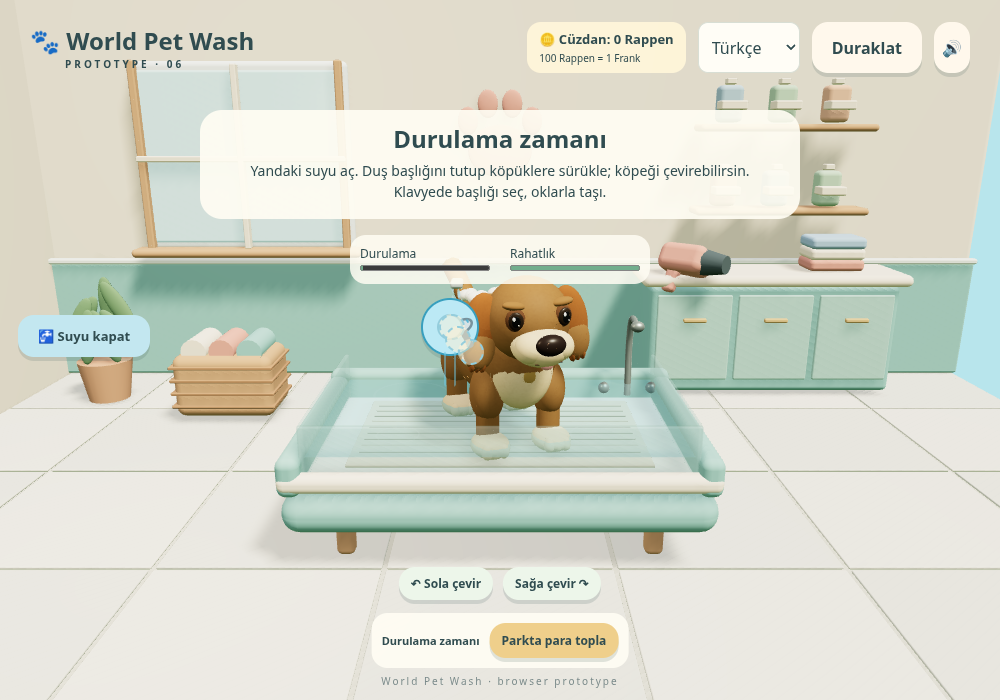
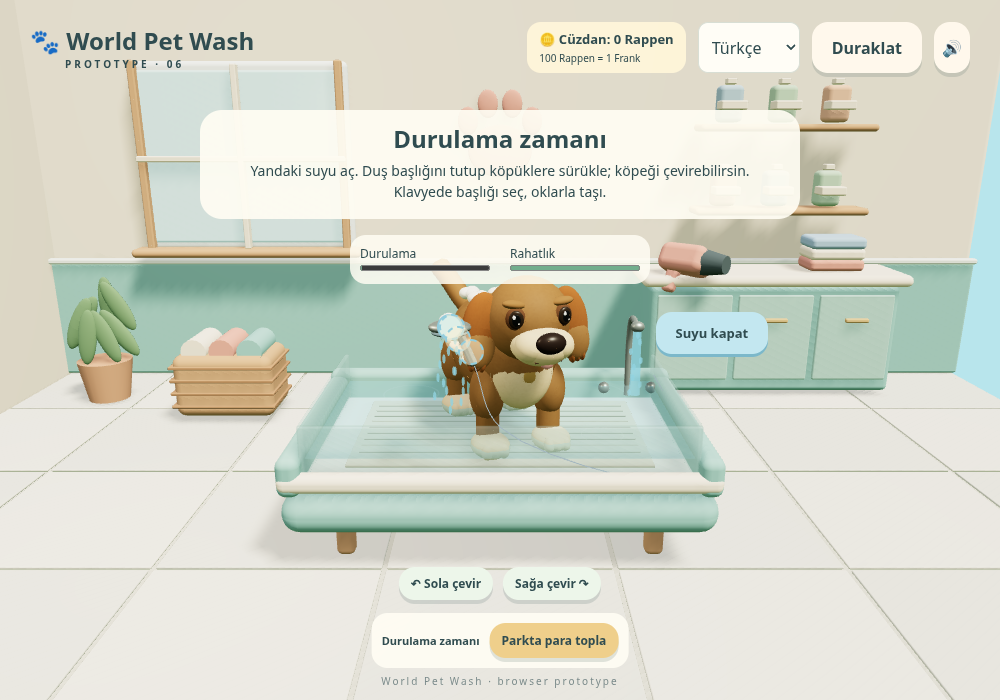
Fix slide direction, add swing pumping and movable shower head

Changed region(s): [[0.403, 0.39, 0.589, 0.6], [0.62, 0.42, 0.775, 0.57], [0.0, 0.45, 0.155, 0.54]]

diff --git a/src/main.js b/src/main.js
@@ -1,6 +1,6 @@
 import * as THREE from 'three';
 import './style.css';
-import { groundHeight, ParkJump, dogDestination, nearbyRide, moveAroundObjects, blocked } from './park.js';
+import { groundHeight, ParkJump, SwingMotion, slidePosition, dogDestination, nearbyRide, moveAroundObjects, blocked } from './park.js';
 import { GameSound } from './sound.js';
 import { CaptureSequence } from './capture.js';
 import { MoneyQuestion, collectionQuestion } from './math.js';
@@ -68,9 +68,9 @@ Object.assign(texts.de,{timing:'Spring und fang!',timingHelp:'Klicke oder tippe 
 Object.assign(texts.tr,{washHelp:'Köpeği çevir, baloncukları işaretli kirli noktalara bırak.',rinse:'Durulama zamanı',rinseHelp:'Köpeği çevir. Köpüklü noktaları basılı tutarak suyla durula.',towel:'Havlu zamanı',towelHelp:'Her havluya iki kez bas veya ileri geri sil. Klavyede Enter kullan.',rinseProgress:'Durulama',towelProgress:'Havluyla kurulama',turnLeft:'Sola çevir',turnRight:'Sağa çevir',dirtySpot:'Kirli nokta',foamSpot:'Köpüklü nokta',targetDirt:'Baloncuğu işaretli kirli noktaya bırak.',soundOn:'Ses açık',soundOff:'Ses kapalı'});
 Object.assign(texts.en,{washHelp:'Turn the puppy and drop bubbles onto marked dirty spots.',rinse:'Rinse time',rinseHelp:'Turn the puppy. Hold each foamy spot to rinse it with water.',towel:'Towel time',towelHelp:'Tap each towel twice or rub back and forth. Use Enter with a keyboard.',rinseProgress:'Rinsing',towelProgress:'Towel drying',turnLeft:'Turn left',turnRight:'Turn right',dirtySpot:'Dirty spot',foamSpot:'Foamy spot',targetDirt:'Drop the bubble on a marked dirty spot.',soundOn:'Sound on',soundOff:'Sound off'});
 Object.assign(texts.de,{washHelp:'Drehe den Hund und ziehe Blasen auf markierte schmutzige Stellen.',rinse:'Zeit zum Abspülen',rinseHelp:'Drehe den Hund. Halte jede schaumige Stelle gedrückt, um sie abzuspülen.',towel:'Handtuchzeit',towelHelp:'Tippe jedes Handtuch zweimal an oder reibe hin und her. Mit der Tastatur: Enter.',rinseProgress:'Abspülen',towelProgress:'Abtrocknen',turnLeft:'Nach links drehen',turnRight:'Nach rechts drehen',dirtySpot:'Schmutzige Stelle',foamSpot:'Schaumige Stelle',targetDirt:'Ziehe die Blase auf eine markierte schmutzige Stelle.',soundOn:'Ton an',soundOff:'Ton aus'});
-Object.assign(texts.tr,{jump:'Zıpla',waterOn:'Suyu aç',waterOff:'Suyu kapat',showerHead:'Duş başlığı',rinseHelp:'Yandaki suyu aç. Duş başlığını tutup köpüklere sürükle; köpeği çevirebilirsin. Klavyede başlığı seç, oklarla taşı.',chaseHelp:'WASD / oklarla koş, J ile zıpla. Yaklaşınca Yakala. Tepeleri ve oyun alanını keşfet!'});
-Object.assign(texts.en,{jump:'Jump',waterOn:'Turn water on',waterOff:'Turn water off',showerHead:'Shower head',rinseHelp:'Turn on the water at the side. Drag the shower head onto foam; turn the puppy as needed. Select the head and use arrow keys with a keyboard.',chaseHelp:'Run with WASD / arrows, jump with J. Get close and Catch. Explore hills and the playground!'});
-Object.assign(texts.de,{jump:'Springen',waterOn:'Wasser öffnen',waterOff:'Wasser schliessen',showerHead:'Duschkopf',rinseHelp:'Öffne das Wasser an der Seite. Ziehe den Duschkopf auf den Schaum und drehe den Hund. Mit der Tastatur: Duschkopf auswählen und Pfeile verwenden.',chaseHelp:'Laufe mit WASD / Pfeilen, springe mit J. Geh näher und fange den Hund. Erkunde Hügel und Spielplatz!'});
+Object.assign(texts.tr,{swingHelp:'İleri / geri ile salla',jump:'Zıpla',waterOn:'Suyu aç',waterOff:'Suyu kapat',showerHead:'Duş başlığı',rinseHelp:'Yandaki suyu aç. Duş başlığını tutup köpüklere sürükle; köpeği çevirebilirsin. Klavyede başlığı seç, oklarla taşı.',chaseHelp:'WASD / oklarla koş, J ile zıpla. Yaklaşınca Yakala. Tepeleri ve oyun alanını keşfet!'});
+Object.assign(texts.en,{swingHelp:'Swing with forward / back',jump:'Jump',waterOn:'Turn water on',waterOff:'Turn water off',showerHead:'Shower head',rinseHelp:'Turn on the water at the side. Drag the shower head onto foam; turn the puppy as needed. Select the head and use arrow keys with a keyboard.',chaseHelp:'Run with WASD / arrows, jump with J. Get close and Catch. Explore hills and the playground!'});
+Object.assign(texts.de,{swingHelp:'Mit vor / zurück schaukeln',jump:'Springen',waterOn:'Wasser öffnen',waterOff:'Wasser schliessen',showerHead:'Duschkopf',rinseHelp:'Öffne das Wasser an der Seite. Ziehe den Duschkopf auf den Schaum und drehe den Hund. Mit der Tastatur: Duschkopf auswählen und Pfeile verwenden.',chaseHelp:'Laufe mit WASD / Pfeilen, springe mit J. Geh näher und fange den Hund. Erkunde Hügel und Spielplatz!'});
 Object.assign(texts.tr,{useSwing:'Salıncağa bin (E)',useSlide:'Kaydırağa çık (E)',leaveRide:'İn (E)'});
 Object.assign(texts.en,{useSwing:'Use swing (E)',useSlide:'Climb slide (E)',leaveRide:'Get off (E)'});
 Object.assign(texts.de,{useSwing:'Schaukeln (E)',useSlide:'Zur Rutsche (E)',leaveRide:'Absteigen (E)'});
@@ -99,9 +99,11 @@ box(4.6,.15,.15,'#79a9b2',playground,0,2.8,0);
 const swingPivot=new THREE.Group();swingPivot.position.set(0,2.8,0);playground.add(swingPivot);
 for(const x of [-.4,.4])box(.03,1.9,.03,'#a5aaa6',swingPivot,x,-.95,0);
 box(1,.12,.5,'#efb16c',swingPivot,0,-1.97,0);
-const slide=box(1.2,.1,3.2,'#dba391',playground,3.2,.85,1.4);slide.rotation.x=-.48;
-for(const x of [2.75,3.65])box(.08,1.6,.08,'#719b94',playground,x,.8,0);
-for(let i=0;i<5;i++)box(.8,.07,.16,'#8caeaa',playground,3.2,.25+i*.27,-.65);
+const slide=box(1.2,.1,3.2,'#dba391',playground,3.2,1.57,1.4);slide.rotation.x=.48;
+for(const x of [2.75,3.65])box(.08,2.3,.08,'#719b94',playground,x,1.15,0);
+for(let i=0;i<7;i++)box(.8,.07,.16,'#8caeaa',playground,3.2,.25+i*.3,-.95+i*.14);
+box(1.2,.1,.4,'#dba391',playground,3.2,2.29,-.16);
+for(const x of [2.7,3.7]){const rail=box(.06,.06,3.2,'#dba391',playground,x,1.74,1.4);rail.rotation.x=.48;}
 for(let i=0;i<4;i++)mesh(new THREE.CylinderGeometry(.55,.55,.1,20),i%2?'#7abbb0':'#edbd75',playground,-3+i*1.5,.12,3);
 for(let i=0;i<30;i++){const a=i/30*Math.PI*2,r=48+(i%3);const tree=new THREE.Group();tree.position.set(Math.sin(a)*r,0,Math.cos(a)*r);park.add(tree);mesh(new THREE.CylinderGeometry(.18,.3,2.5,8),'#99775b',tree,0,1.25,0);sphere(1.8,i%2?'#5d9e68':'#73b57b',tree,0,3.3,0);}
 for(let i=0;i<45;i++){const a=i*2.4,r=17+(i%15);sphere(.12,['#fff5ce','#f79caf','#b49de2'][i%3],park,Math.sin(a)*r,.12,Math.cos(a)*r);}
@@ -222,36 +224,42 @@ addEventListener('pointerdown',()=>sound.unlock(),{once:true});addEventListener(
 const soundButton=document.createElement('button');soundButton.id='sound-toggle';document.querySelector('header>div').append(soundButton);
 soundButton.onclick=()=>{sound.toggle();renderSound();};
 function renderSound(){soundButton.textContent=sound.muted?'🔇':'🔊';soundButton.setAttribute('aria-label',t(sound.muted?'soundOff':'soundOn'));soundButton.setAttribute('aria-pressed',String(!sound.muted));}
-let parkRide=null,rideTime=0;
+let parkRide=null,rideTime=0,swingMotion=new SwingMotion();
 const rideButton=document.createElement('button');rideButton.id='ride-button';document.querySelector('#controls').append(rideButton);rideButton.hidden=true;
 function leaveRide(){const previous=parkRide;parkRide=null;swingPivot.rotation.x=0;player.position.set(previous==='slide'?-14.8:-18,0,previous==='slide'?-18.8:-19);keys.clear();owner.animate(elapsed,false);}
-function useRide(){if(paused||!['chase','collect'].includes(stage))return;if(parkRide){leaveRide();return;}const choice=nearbyRide(player.position.x,player.position.z);if(!choice)return;parkRide=choice;rideTime=0;angle=0;parkJump.height=0;parkJump.velocity=0;keys.clear();}
+function useRide(){if(paused||!['chase','collect'].includes(stage))return;if(parkRide){leaveRide();return;}const choice=nearbyRide(player.position.x,player.position.z);if(!choice)return;parkRide=choice;rideTime=0;swingMotion=new SwingMotion();angle=0;parkJump.height=0;parkJump.velocity=0;keys.clear();}
 rideButton.onclick=useRide;
 rideButton.onkeydown=e=>{if(['Enter',' '].includes(e.key)){e.preventDefault();e.stopPropagation();if(!e.repeat)useRide();}};
 function updateRide(dt){rideTime+=dt;
- if(parkRide==='swing'){const theta=Math.sin(rideTime*2)*.45;swingPivot.rotation.x=theta;player.position.set(-18,2.8-1.92*Math.cos(theta)-.78,-17-1.92*Math.sin(theta));player.rotation.y=0;owner.animate(elapsed,false,'sit');}
- if(parkRide==='slide'){const climb=Math.min(1,rideTime/1.5),p=Math.max(0,Math.min(1,(rideTime-1.5)/1.4));player.position.set(-14.8,rideTime<1.5?climb*1.55:1.55*(1-p),rideTime<1.5?-17.65+climb*.85:-16.8+p*2.8);player.rotation.y=0;owner.animate(elapsed,false,rideTime<1.5?'jump':'sit');if(rideTime>3.1){parkRide=null;player.position.set(-14.8,0,-13.5);owner.animate(elapsed,false);}}
+ if(parkRide==='swing'){const push=(keys.has('w')||keys.has('arrowup')||keys.has('up')?1:0)-(keys.has('s')||keys.has('arrowdown')||keys.has('down')?1:0);swingMotion.tick(dt,push);const theta=-swingMotion.angle;swingPivot.rotation.x=theta;player.position.set(-18,2.8-1.92*Math.cos(theta)-.78,-17-1.92*Math.sin(theta));player.rotation.y=0;owner.animate(elapsed,false,'sit');}
+ if(parkRide==='slide'){const p=slidePosition(rideTime);player.position.set(p.x,p.y,p.z);player.rotation.y=0;owner.animate(elapsed,false,rideTime<1.5?'jump':'sit');if(rideTime>3.1){parkRide=null;player.position.set(-14.8,0,-13.5);owner.animate(elapsed,false);}}
 }
 const parkJump=new ParkJump();
 const jumpButton=document.createElement('button');jumpButton.id='jump-button';document.querySelector('#controls').append(jumpButton);
 jumpButton.onclick=()=>{if(!parkRide&&!paused&&['chase','collect'].includes(stage))parkJump.start();};
 jumpButton.onkeydown=e=>{if(['Enter',' '].includes(e.key)){e.preventDefault();e.stopPropagation();if(!e.repeat)jumpButton.click();}};
 const rinseControl=document.createElement('div');rinseControl.id='rinse-control';document.body.append(rinseControl);
+let showerPlaced=false;
 let waterOn=false,showerDragging=false,showerPoint={x:100,y:220};
 function renderRinseControl(){
- rinseControl.hidden=paused||stage!=='rinse';showerDragging=false;
- rinseControl.innerHTML=`<button id="water-tap" aria-pressed="${waterOn}">🚰 ${t(waterOn?'waterOff':'waterOn')}</button><button id="shower-handle" aria-label="${t('showerHead')}" title="${t('showerHead')}"><svg viewBox="0 0 48 48" aria-hidden="true"><path d="M31 37L23 22" fill="none" stroke="#77939e" stroke-width="8" stroke-linecap="round"/><ellipse cx="21" cy="17" rx="13" ry="7" transform="rotate(-30 21 17)" fill="#d6e2e5" stroke="#77939e" stroke-width="3"/><path d="M13 17l2 3m5-7l2 3m5-7l2 3" stroke="#58b4d2" stroke-width="2"/></svg></button>`;
+ rinseControl.hidden=paused||stage!=='rinse';showerDragging=false;showerPlaced=false;
+
+ rinseControl.innerHTML=`<button id="water-tap" aria-pressed="${waterOn}">${t(waterOn?'waterOff':'waterOn')}</button><button id="shower-handle" aria-label="${t('showerHead')}" title="${t('showerHead')}"></button>`;
  const handle=rinseControl.querySelector('#shower-handle');
  const position=()=>{handle.style.left=showerPoint.x+'px';handle.style.top=showerPoint.y+'px';};position();
- rinseControl.querySelector('#water-tap').onclick=()=>{waterOn=!waterOn;rinseControl.querySelector('#water-tap').textContent='🚰 '+t(waterOn?'waterOff':'waterOn');rinseControl.querySelector('#water-tap').setAttribute('aria-pressed',String(waterOn));};
- handle.onpointerdown=e=>{if(paused||mathTask)return;handle.setPointerCapture(e.pointerId);showerDragging=true;showerPoint={x:e.clientX,y:e.clientY};position();};
+ rinseControl.querySelector('#water-tap').onclick=()=>{waterOn=!waterOn;rinseControl.querySelector('#water-tap').textContent=t(waterOn?'waterOff':'waterOn');rinseControl.querySelector('#water-tap').setAttribute('aria-pressed',String(waterOn));};
+ handle.onpointerdown=e=>{if(paused||mathTask)return;handle.setPointerCapture(e.pointerId);showerPlaced=true;showerDragging=true;showerPoint={x:e.clientX,y:e.clientY};position();};
  handle.onpointermove=e=>{if(!showerDragging)return;showerPoint={x:e.clientX,y:e.clientY};position();};
  for(const event of ['pointerup','pointercancel','lostpointercapture'])handle.addEventListener(event,()=>{showerDragging=false;rinseZone=null;});
- handle.onkeydown=e=>{const moves={ArrowLeft:[-15,0],ArrowRight:[15,0],ArrowUp:[0,-15],ArrowDown:[0,15]};if(moves[e.key]){e.preventDefault();e.stopPropagation();const [x,y]=moves[e.key];showerPoint.x=Math.max(30,Math.min(innerWidth-30,showerPoint.x+x));showerPoint.y=Math.max(70,Math.min(innerHeight-30,showerPoint.y+y));showerDragging=true;position();}};
+ handle.onkeydown=e=>{const moves={ArrowLeft:[-15,0],ArrowRight:[15,0],ArrowUp:[0,-15],ArrowDown:[0,15]};if(moves[e.key]){e.preventDefault();e.stopPropagation();showerPlaced=true;const [x,y]=moves[e.key];showerPoint.x=Math.max(30,Math.min(innerWidth-30,showerPoint.x+x));showerPoint.y=Math.max(70,Math.min(innerHeight-30,showerPoint.y+y));showerDragging=true;position();}};
  handle.onblur=()=>{showerDragging=false;rinseZone=null;};
 }
 function updateShower(){
  rinseControl.classList.toggle('flowing',waterOn&&showerDragging&&!paused&&!mathTask);
+ const tap=rinseControl.querySelector('#water-tap');
+ const anchor=careRoom.tapPosition.clone().project(camera);
+ if(!showerPlaced&&!showerDragging){showerPoint={x:Math.max(45,Math.min(innerWidth-45,(anchor.x*.5+.5)*innerWidth+80)),y:Math.max(120,Math.min(innerHeight-45,(-anchor.y*.5+.5)*innerHeight+65))};const handle=rinseControl.querySelector('#shower-handle');if(handle){handle.style.left=showerPoint.x+'px';handle.style.top=showerPoint.y+'px';}}
+ if(tap){tap.style.left=Math.max(10,Math.min(innerWidth-tap.offsetWidth-10,(anchor.x*.5+.5)*innerWidth+18))+'px';tap.style.top=Math.max(100,Math.min(innerHeight-60,(-anchor.y*.5+.5)*innerHeight-15))+'px';}
  rinseZone=null;if(!waterOn||!showerDragging||paused||mathTask||stage!=='rinse')return;
  let best=48;
  for(let i=0;i<8;i++)if(care.foam[i]>0&&spotVisible(i)){const p=spotPosition(i),distance=Math.hypot(p.x-showerPoint.x,p.y-showerPoint.y);if(distance<best){best=distance;rinseZone=i;}}
@@ -325,7 +333,7 @@ function knockDryer(){
   stopDryer();economy.dryerPaid=false;care.resetCurrentPhase();misses++;
   dryerKnockTime=1.2;renderShop();updateCareHud();toast(t('dryerThrown'));
 }
-function stopDryer() { activeZone = null; rinseZone=null; waterOn=false; showerDragging=false; turningPointer=null; }
+function stopDryer() { careRoom.stopWater();activeZone = null; rinseZone=null; waterOn=false; showerDragging=false; turningPointer=null; }
 function renderDryer() {
   dryerLayer.innerHTML = '';
   zoneNames.forEach((name, i) => {
@@ -576,7 +584,7 @@ const clock=new THREE.Clock();function loop(){requestAnimationFrame(loop);const 
  player.position.x=movement.x;player.position.z=movement.z;
  if(player.position.length()>51)player.position.setLength(51);parkJump.tick(dt);player.position.y=groundHeight(player.position.x,player.position.z)+parkJump.height;owner.animate(elapsed,forward!==0,parkJump.height>0?'jump':null);
 }
-rideButton.hidden=!parkRide&&!nearbyRide(player.position.x,player.position.z);rideButton.textContent=t(parkRide?'leaveRide':nearbyRide(player.position.x,player.position.z)==='swing'?'useSwing':'useSlide');
+rideButton.hidden=!parkRide&&!nearbyRide(player.position.x,player.position.z);rideButton.textContent=(parkRide==='swing'?t('swingHelp')+' · '+t('leaveRide'):t(parkRide?'leaveRide':nearbyRide(player.position.x,player.position.z)==='swing'?'useSwing':'useSlide'));
 const route=dogDestination(elapsed);const dest=new THREE.Vector3(route.x,0,route.z);const dir=dest.sub(dog.position);dir.y=0;if(dir.length()>.2){dir.normalize();const dogMove=moveAroundObjects(dog.position.x,dog.position.z,dog.position.x+dir.x*dt*2,dog.position.z+dir.z*dt*2,0);dog.position.x=dogMove.x;dog.position.z=dogMove.z;dog.rotation.y=Math.atan2(dir.x,dir.z);}dog.position.y=groundHeight(dog.position.x,dog.position.z)+Math.sin(elapsed*14)*.035;action.disabled=parkRide?true:stage==='collect'?false:player.position.distanceTo(dog.position)>=3;}if(stage==='timing'&&capture)updateCapture(dt);if(stage==='wash'){if(bubbles.some(b=>economy.canPayAmount(b.price)))care.tickWash(dt*.45);updateCareHud();if(care.comfort<=0)escapeCare();}
 if(stage==='rinse')updateShower();
 if(stage==='rinse'&&rinseZone!==null){const done=care.rinse(dt,rinseZone);syncSoap();updateCareHud();if(elapsed-lastWaterSound>.5){sound.play('water');lastWaterSound=elapsed;}if(done){sound.play('happy');enterCare();}}
@@ -588,5 +596,6 @@ if(stage==='dry'){
   else updateCareHud();
 }
 }
-let target,look;if(stage==='chase'||stage==='timing'||stage==='collect'){target=player.position.clone().add(new THREE.Vector3(-Math.sin(angle)*6,4,-Math.cos(angle)*6));look=player.position.clone().add(new THREE.Vector3(Math.sin(angle)*3,1,Math.cos(angle)*3));}else if(['wash','rinse','towel','dry','dress','done'].includes(stage)){const compact=innerHeight<600;const dressing=stage==='dress';target=new THREE.Vector3(dressing&&innerWidth>500?2:0,3.6,compact?5.8:7);look=new THREE.Vector3(dressing&&innerWidth>500?2:0,compact?2.5:1.6,0);}else{const portrait=innerWidth<600;target=new THREE.Vector3(portrait?-.8:-1.25,2.05,portrait?5.4:4.4);look=new THREE.Vector3(portrait?-.8:-1.25,1.13,0);dog.position.set(2,0,-.5);player.rotation.y=previewAngle;owner.animate(elapsed,false);}camera.position.lerp(target,1-Math.exp(-dt*6));camera.lookAt(look);positionCatchTarget();updateSpots();if(stage==='dry')updateDryer();const wet=['wash','rinse','towel'].includes(stage)?1:stage==='dry'?1-care.dryness/100:0;if(!paused){puppy.animate(elapsed,{running:stage==='chase'||stage==='collect'||capture?.phase==='miss',wet,comfort:care.comfort,blowing:stage==='dry'&&activeZone!==null,knocking:dryerKnockTime>0,happiness:care.clean/100});const airTarget=stage==='dry'&&activeZone!==null?dog.localToWorld(zonePoints[activeZone].clone()):null;const rinseTarget=stage==='rinse'&&rinseZone!==null?dog.localToWorld(dirt[rinseZone].position.clone()):null;const towelTarget=stage==='towel'&&elapsed<towelVisualUntil?dog.localToWorld(zonePoints[towelVisualZone].clone()):null;careRoom.animate(elapsed,{blowing:!!airTarget,target:airTarget,knock:dryerKnockTime,washing:stage==='wash'||stage==='rinse',rinseTarget,towelTarget});}if(stage==='wash'&&!paused&&!mathTask)for(const b of bubbles)if(b!==selectedBubble)positionBubble(b);renderer.render(scene,camera);}
+let target,look;if(stage==='chase'||stage==='timing'||stage==='collect'){target=player.position.clone().add(new THREE.Vector3(-Math.sin(angle)*6,4,-Math.cos(angle)*6));look=player.position.clone().add(new THREE.Vector3(Math.sin(angle)*3,1,Math.cos(angle)*3));}else if(['wash','rinse','towel','dry','dress','done'].includes(stage)){const compact=innerHeight<600;const dressing=stage==='dress';target=new THREE.Vector3(dressing&&innerWidth>500?2:0,3.6,compact?5.8:7);look=new THREE.Vector3(dressing&&innerWidth>500?2:0,compact?2.5:1.6,0);}else{const portrait=innerWidth<600;target=new THREE.Vector3(portrait?-.8:-1.25,2.05,portrait?5.4:4.4);look=new THREE.Vector3(portrait?-.8:-1.25,1.13,0);dog.position.set(2,0,-.5);player.rotation.y=previewAngle;owner.animate(elapsed,false);}camera.position.lerp(target,1-Math.exp(-dt*6));camera.lookAt(look);positionCatchTarget();updateSpots();if(stage==='dry')updateDryer();const wet=['wash','rinse','towel'].includes(stage)?1:stage==='dry'?1-care.dryness/100:0;if(!paused){puppy.animate(elapsed,{running:stage==='chase'||stage==='collect'||capture?.phase==='miss',wet,comfort:care.comfort,blowing:stage==='dry'&&activeZone!==null,knocking:dryerKnockTime>0,happiness:care.clean/100});const airTarget=stage==='dry'&&activeZone!==null?dog.localToWorld(zonePoints[activeZone].clone()):null;const rinseTarget=stage==='rinse'&&rinseZone!==null?dog.localToWorld(dirt[rinseZone].position.clone()):null;const towelTarget=stage==='towel'&&elapsed<towelVisualUntil?dog.localToWorld(zonePoints[towelVisualZone].clone()):null;const headPosition=stage==='rinse'?new THREE.Vector3(showerPoint.x/innerWidth*2-1,1-showerPoint.y/innerHeight*2,0).unproject(camera):null;if(headPosition){const ray=headPosition.clone().sub(camera.position);headPosition.copy(camera.position).addScaledVector(ray,(1.35-camera.position.z)/ray.z);}
+careRoom.animate(elapsed,{rinsing:stage==='rinse',waterOn:stage==='rinse'&&waterOn&&!mathTask,headPosition,spraying:stage==='rinse'&&showerDragging,blowing:!!airTarget,target:airTarget,knock:dryerKnockTime,washing:stage==='wash'||stage==='rinse',rinseTarget,towelTarget});}if(stage==='wash'&&!paused&&!mathTask)for(const b of bubbles)if(b!==selectedBubble)positionBubble(b);renderer.render(scene,camera);}
 camera.position.set(innerWidth<600?-.8:-1.25,2.05,innerWidth<600?5.4:4.4);renderUI();loop();

diff --git a/src/visuals.js b/src/visuals.js
@@ -232,10 +232,23 @@ export function createCareRoom() {
     const ripple=add(waterTank,new THREE.RingGeometry(.18,.19,40),new THREE.MeshBasicMaterial({color:'#e2fbff',transparent:true,opacity:.3,depthWrite:false,side:THREE.DoubleSide}),[(i%2?1:-1)*.9,.98,(i<2?1:-1)*.55]);
     ripple.rotation.x=-Math.PI/2;ripple.castShadow=false;ripples.push(ripple);
   }
-  const shower=new THREE.Group();root.add(shower);
-  const nozzle=rounded(shower,[.12,.07,.22],'#bdcccd',[0,0,0],.03);
+  const tapPosition=new THREE.Vector3(1.35,1.7,-.48);
+  const tapFlow=new THREE.Group();root.add(tapFlow);tapFlow.position.copy(tapPosition);
+  const flowingWater=new THREE.MeshBasicMaterial({color:'#55c7ec',transparent:true,opacity:.8,depthWrite:false});
+  const stream=add(tapFlow,new THREE.CylinderGeometry(.04,.055,.7,10),flowingWater,[0,-.35,0]);stream.castShadow=false;
+  const tapDrops=[];
+  for(let i=0;i<8;i++){const drop=oval(tapFlow,flowingWater,[0,0,0],[.018,.035,.018]);drop.castShadow=false;tapDrops.push(drop);}
+  tapFlow.visible=false;tapFlow.name='Running tap';
+  const shower=new THREE.Group();root.add(shower);shower.name='Movable shower head';
+  const nozzle=oval(shower,chrome,[0,0,0],[.16,.055,.12]);
+  oval(shower,'#667d86',[0,-.035,.035],[.135,.025,.1]);
+  const handle=rounded(shower,[.065,.3,.065],chrome,[.12,-.16,0],.025);handle.rotation.z=.4;
+  for(let i=0;i<9;i++)oval(shower,'#a6e6f6',[(i%3-1)*.055,-.058,.02+Math.floor(i/3)*.035],[.009,.009,.009]);
+  const spray=new THREE.Group();shower.add(spray);
   const droplets=[];
-  for(let i=0;i<12;i++){const drop=oval(shower,new THREE.MeshBasicMaterial({color:'#8bd9f0',transparent:true,opacity:.7}),[0,0,0],[.012,.045,.012]);drop.castShadow=false;droplets.push(drop);}
+  for(let i=0;i<18;i++){const drop=oval(spray,flowingWater,[0,0,0],[.012,.035,.012]);drop.castShadow=false;droplets.push(drop);}
+  const hoseGeometry=new THREE.BufferGeometry().setFromPoints(Array.from({length:25},()=>new THREE.Vector3()));
+  const hose=new THREE.Line(hoseGeometry,new THREE.LineBasicMaterial({color:'#879eaa'}));root.add(hose);
   const towel=rounded(root,[.48,.035,.32],'#fff2dc',[0,0,0],.02);
   shower.visible=false;towel.visible=false;
   const dryer=new THREE.Group();root.add(dryer);
@@ -249,9 +262,19 @@ export function createCareRoom() {
   air.visible=false;
   // This light only runs with the room; no additional shadow map is allocated.
   const warmLight=new THREE.PointLight('#ffe2bd',10,14,2);warmLight.position.set(-3,4,1);root.add(warmLight);
-  function animate(time, {blowing=false,target=null,knock=0,washing=false,rinseTarget=null,towelTarget=null}={}) {
-    shower.visible=!!rinseTarget;towel.visible=!!towelTarget;
-    if(rinseTarget){shower.position.copy(rinseTarget).add(new THREE.Vector3(.08,.45,.08));droplets.forEach((drop,i)=>{const p=(time*1.6+i/12)%1;drop.position.set(Math.sin(i*2.4)*.045,-p*.42,Math.cos(i*2.4)*.045);});}
+  function animate(time, {blowing=false,target=null,knock=0,washing=false,rinseTarget=null,towelTarget=null,rinsing=false,waterOn=false,headPosition=null,spraying=false}={}) {
+    shower.visible=rinsing;hose.visible=rinsing;towel.visible=!!towelTarget;
+    tapFlow.visible=rinsing&&waterOn;
+    tapDrops.forEach((drop,i)=>{const p=(time*1.8+i/8)%1;drop.position.set(Math.sin(i*2.4)*.055,-p*.7,Math.cos(i*2.4)*.04);});
+    spray.visible=rinsing&&waterOn&&spraying;
+    if(rinsing&&headPosition){
+      shower.position.copy(headPosition);
+      droplets.forEach((drop,i)=>{const p=(time*1.6+i/18)%1;drop.position.set(Math.sin(i*2.4)*(.055+p*.08),-.07-p*.55,Math.cos(i*2.4)*.05+.06);});
+      const end=headPosition.clone().add(new THREE.Vector3(.18,-.3,0));
+      const curve=new THREE.CatmullRomCurve3([new THREE.Vector3(1.6,1.1,-.8),new THREE.Vector3(1.9,.5,.4),end.clone().add(new THREE.Vector3(.2,-.5,0)),end]);
+      const attr=hoseGeometry.attributes.position;
+      for(let i=0;i<25;i++){const p=curve.getPoint(i/24);attr.setXYZ(i,p.x,p.y,p.z);}attr.needsUpdate=true;hoseGeometry.computeBoundingSphere();
+    }
     if(towelTarget){towel.position.copy(towelTarget).add(new THREE.Vector3(Math.sin(time*18)*.08,.05,.08));towel.rotation.set(.3,time*.2,.15);}
     waterTank.visible=washing;water.position.y=.97+Math.sin(time*.8)*.008;
     ripples.forEach((r,i)=>{const p=(time*.16+i*.25)%1;r.scale.setScalar(.7+p*2);r.material.opacity=(1-p)*.25;});
@@ -268,5 +291,5 @@ export function createCareRoom() {
     }
   }
   animate(0);
-  return {root,animate};
+  return {root,animate,tapPosition,stopWater(){tapFlow.visible=false;spray.visible=false;}};
 }

diff --git a/src/style.css b/src/style.css
@@ -27,3 +27,10 @@ body[data-stage="dress"] #toast{left:30%;bottom:80px;max-width:45%}
 #jump-button{pointer-events:auto;background:#86c7ac;font-size:16px;min-height:55px;min-width:95px;margin:0 10px}#rinse-control{position:fixed;inset:0;pointer-events:none}#water-tap{position:absolute;left:18px;top:45%;pointer-events:auto;background:#c3e7f0;font-size:13px}#shower-handle{position:absolute;transform:translate(-50%,-50%);pointer-events:auto;touch-action:none;border-radius:50%;width:58px;height:58px;font-size:30px;background:#d8edf1;border:2px solid #78b7c9;cursor:grab}#shower-handle:active{cursor:grabbing}body[data-stage="rinse"] .care-spot{pointer-events:none;font-size:0;width:26px;height:26px;border-color:#94cddc}@media(max-height:600px){#jump-button{min-height:45px;min-width:80px}#water-tap{left:10px;top:46%;padding:8px}#shower-handle{width:50px;height:50px}}
 #shower-handle svg{width:42px;height:42px;display:block;margin:auto}.flowing #shower-handle{background:#bce9f5;border-color:#389fbe}.flowing #shower-handle::after{content:'';position:absolute;left:30%;top:90%;width:40%;height:36px;pointer-events:none;background:repeating-linear-gradient(90deg,transparent 0 5px,#71cce9aa 5px 7px,transparent 7px 10px);border-radius:0 0 50% 50%;animation:shower-flow .35s alternate infinite}@keyframes shower-flow{to{transform:translateY(5px);opacity:.5}}@media(prefers-reduced-motion:reduce){.flowing #shower-handle::after{animation:none}}
 #ride-button{position:absolute;left:50%;transform:translateX(-50%);bottom:85px;pointer-events:auto;background:#aad8bd;font-size:15px;padding:12px 18px}@media(max-height:600px){#ride-button{bottom:65px;padding:8px 12px;font-size:12px}}
+
+/* The hit surface follows the 3D shower head; only keyboard focus adds an outline. */
+#shower-handle{background:transparent!important;border:0!important;border-radius:12px;width:64px;height:68px;padding:0;box-shadow:none!important}
+#shower-handle:focus-visible{outline:3px solid #2787a1;outline-offset:3px}
+.flowing #shower-handle::after{display:none}
+#water-tap{top:auto;left:auto;white-space:nowrap;box-shadow:0 3px 0 #7cb8ca}
+#ride-button{max-width:calc(100vw - 24px);white-space:normal}

diff --git a/tests/park.test.js b/tests/park.test.js
@@ -3,3 +3,13 @@ test('hill height is shared, smooth and zero outside hills',()=>{assert.equal(gr
 test('jump leaves ground, blocks repeated jumps and lands',()=>{const jump=new ParkJump();assert.equal(jump.start(),true);assert.equal(jump.start(),false);jump.tick(.1);assert.ok(jump.height>0);for(let i=0;i<30;i++)jump.tick(.05);assert.equal(jump.height,0);assert.equal(jump.velocity,0);assert.equal(jump.start(),true);});
 test('puppy route stays in the park and varies',()=>{for(let t=0;t<500;t+=.5){const p=dogDestination(t);assert.ok(Math.hypot(p.x,p.z)<51);}assert.notDeepEqual(dogDestination(0),dogDestination(5));});
 test('playground proximity and solid objects block walking but allow clear routes',async()=>{const {nearbyRide,blocked,moveAroundObjects}=await import('../src/park.js');assert.equal(nearbyRide(-18,-19),'swing');assert.equal(nearbyRide(-14.8,-18),'slide');assert.equal(nearbyRide(0,0),null);assert.equal(blocked(-18,-17),true);assert.equal(blocked(-14.8,-15.6),true);assert.deepEqual(moveAroundObjects(-18,-19,-18,-17),{x:-18,z:-19});assert.equal(blocked(-18,-17,4),false);});
+test('swing needs input, gains momentum with alternating pushes and settles without input',async()=>{
+ const {SwingMotion}=await import('../src/park.js');const swing=new SwingMotion();for(let i=0;i<120;i++)swing.tick(1/60);assert.equal(swing.angle,0);
+ for(let i=0;i<240;i++)swing.tick(1/60,swing.velocity>=0?1:-1);assert.ok(Math.abs(swing.angle)>.1||Math.abs(swing.velocity)>.3);assert.ok(Math.abs(swing.angle)<=.72);
+ const energy=()=>swing.velocity**2/2+3.8*(1-Math.cos(swing.angle));const before=energy();for(let i=0;i<1200;i++)swing.tick(1/60);assert.ok(energy()<before*.01);
+});
+test('slide climbs at the high ladder end and descends toward the low exit',async()=>{
+ const {slidePosition}=await import('../src/park.js');const bottom=slidePosition(0),top=slidePosition(1.5),exit=slidePosition(2.9);
+ assert.ok(top.y>bottom.y);assert.ok(top.z>bottom.z);assert.ok(exit.z>top.z);assert.equal(exit.y,0);
+ for(let time=1.5;time<2.9;time+=.05){const a=slidePosition(time),b=slidePosition(time+.05);assert.ok(b.y<=a.y);assert.ok(b.z>=a.z);}
+});

diff --git a/src/park.js b/src/park.js
@@ -8,6 +8,20 @@ export class ParkJump {
 export function dogDestination(time){return {x:Math.sin(time*.22)*23+Math.sin(time*.63)*5,z:Math.cos(time*.19)*23+Math.sin(time*.47)*5};}
 export const PLAYGROUND={swing:{x:-18,z:-17},slide:{x:-14.8,z:-17}};
 export function nearbyRide(x,z){let result=null,distance=2.4;for(const [name,p]of Object.entries(PLAYGROUND)){const d=Math.hypot(x-p.x,z-p.z);if(d<distance){result=name;distance=d;}}return result;}
-const SOLIDS=[{x:-20,z:-17,hx:.4,hz:1.3,top:3},{x:-16,z:-17,hx:.4,hz:1.3,top:3},{x:-18,z:-17,hx:.65,hz:.45,top:3},{x:-14.8,z:-15.6,hx:.8,hz:1.6,top:1.7}];
+const SOLIDS=[{x:-20,z:-17,hx:.4,hz:1.3,top:3},{x:-16,z:-17,hx:.4,hz:1.3,top:3},{x:-18,z:-17,hx:.65,hz:.45,top:3},{x:-14.8,z:-15.6,hx:.8,hz:1.6,top:2.4}];
 export function blocked(x,z,y=0,radius=.24){return SOLIDS.some(s=>y<s.top&&Math.abs(x-s.x)<s.hx+radius&&Math.abs(z-s.z)<s.hz+radius);}
 export function moveAroundObjects(x,z,nextX,nextZ,y=0){return {x:blocked(nextX,z,y)?x:nextX,z:blocked(blocked(nextX,z,y)?x:nextX,nextZ,y)?z:nextZ};}
+
+// Damped pendulum: alternate pushes in the direction of travel to gain height.
+export class SwingMotion {
+ constructor(){this.angle=0;this.velocity=0;}
+ tick(dt,push=0){
+  this.velocity+=(-3.8*Math.sin(this.angle)-.28*this.velocity+push*1.8)*dt;
+  this.angle+=this.velocity*dt;
+  if(Math.abs(this.angle)>.72){this.angle=Math.sign(this.angle)*.72;this.velocity*=.5;}
+ }
+}
+export function slidePosition(time){
+ const climb=Math.min(1,time/1.5),p=Math.max(0,Math.min(1,(time-1.5)/1.4));
+ return {x:-14.8,y:time<1.5?climb*1.53:Math.max(0,1.53-1.53*p),z:time<1.5?-17.95+climb*.93:-17.02+p*2.84};
+}

diff --git a/PROJECT_STATUS.md b/PROJECT_STATUS.md
@@ -13,9 +13,9 @@ Son güncelleme: 9 Ekim 2026. Bu belge yeni sohbetler için kısa proje hafızas
 - Kız/erkek karakter; 4 saç modeli, 5 saç rengi, 4 ten/kıyafet rengi, şapkalar. Sürekli yüz geometrisi ve eklem hareketleri; modeller hâlâ prosedürel Three.js, Blender/GLB varlığı yok.
 - Saçlar başı izleyen kesintisiz yüzey ve ince tutamlarla yenilendi; doğal saç çizgisi, dalgalı kıvırcık, daralan/ayrı sallanan at kuyruğu ve şapka uyumu. Dört model/beş renk korunur.
 - 108 birim çaplı park, üç yürünebilir tepe, kullanılabilir salıncak/kaydırak ve küçük basamak dekorları, arkadan takip kamera, WASD/oklar ve ekran kontrolleri. J/düğmeyle serbest zıplama; oyuncu, köpek ve coinlerde ortak zemin yüksekliği. Köpek değişken bir rotada koşar. Yakalamada zıplama, havada hedef halkası, başarıda köpeği kucağa alma ve odaya geçiş; kaçırmada köpek uzaklaşır.
-- Salıncağa/kaydırağa yaklaşınca düğme veya E ile kullanım; oturma/sallanma, merdiven çıkışı/kayma, güvenli iniş. Nesnelerin içinden yürüyerek geçiş engellenir; aynı park ziyaretinde yakalama/coin akışı korunur.
+- Salıncağa/kaydırağa yaklaşınca düğme veya E ile kullanım; W/S, oklar veya ekranın ileri/geri düğmeleriyle itiş vererek sallanma ve bırakınca sönme; merdivenli yüksek uçtan alçak uca doğru kayma, güvenli iniş. Nesnelerin içinden yürüyerek geçiş engellenir; aynı park ziyaretinde yakalama/coin akışı korunur.
 - Küçük su haznesi, yavaş uçuşan fiyatlı baloncuklar, dokulu kir. Köpek düğmelerle/yatay sürüklemeyle döndürülür; 8 kirli bölge ayrı temizlenir ve köpük birikir.
-- Yandaki suyu açıp duş başlığını köpüklere sürükleyerek durulama (klavyede oklar); 4 bölgeyi havluyla silme. Son düzeltme: her tıklama/dokunma veya Enter/Space %50 ilerletir; iki basış yeterlidir. Sürükleme de ilerletir, bırakma ayrıca sayılmaz.
+- 3B musluğun yanındaki düğmeyle açıldığı anda görünür su akışı; hortumlu 3B başlığın kendisini köpüklere sürükleyerek durulama (klavyede oklar). Bırakınca başlık püskürtmesi durur, musluk açık kalır; duraklatma suyu kapatır. 4 bölgeyi havluyla silme. Son düzeltme: her tıklama/dokunma veya Enter/Space %50 ilerletir; iki basış yeterlidir. Sürükleme de ilerletir, bırakma ayrıca sayılmaz.
 - Havlu sonrası ıslaklık %60; fön fazla ısınınca köpek cihazı patisiyle iter, yalnızca fön yeniden başlatılır ve yeniden ücret alınır.
 - Toka, gözlük, şapka, kıyafet; köpeğin sevdiği renk ipucu ve beğenmeme/kaçış.
 - Rappen/Frank coinler (5/10/20/50 Rp., 1/2/5 Fr.). Farklı baloncuk fiyatları 30–80 Rp.; fön/kıyafet fiyatları oyun başına değişir. Bakiye/harcama ve yıldızlar gösterilir; en iyi yıldız ve ses tercihi localStorage'da saklanır.
@@ -25,7 +25,7 @@ Son güncelleme: 9 Ekim 2026. Bu belge yeni sohbetler için kısa proje hafızas
 
 ## Doğrulama ve sınırlar
 
-Son uygulama düzeltmesinde **22 Node testi ve Vite derlemesi geçti**. Son saç kontrolünde dört model, renk/şapka değişimleri ve telefon ekran boyutu Chromium’da doğrulandı; tarayıcı hatası görülmedi. Önceki park kontrolünde yaklaşınca kullanım düğmesi, nesne çarpışmaları, salıncakta binme/sallanma/inme/duraklatma ve telefon boyutunda kaydıraktan çıkıp kayma Chromium'da doğrulandı. Önceki kontrolde duş sürükleme ve serbest zıplama doğrulandı. Havlu tıklama/dokunma/klavye/sürükleme önceki düzeltmede doğrulandı. Önceki kapsamlı bakım kontrolünde 8 fiyatlı hedefli baloncuk, sorular, durulama ve havlu sırası doğrulandı; uzun durulama kontrolünün bazı bölgeleri yalnızca testte köpük miktarı azaltılarak hızlandırıldı.
+Son uygulama düzeltmesinde **24 Node testi ve Vite derlemesi geçti**. Son kontrolde salıncakta W/S itişi ve duraklatma, düzeltilmiş kaydıraktan çıkıp kayma, başlık tutulmadan musluk akışı, musluğun yanında düğme, 3B başlık hareketi/köpük azaltma/bırakma ve telefon ekran boyutunda yerleşim/klavye kontrolü Chromium’da doğrulandı. Tarayıcı hatası görülmedi. Önceki kontrollerde saç seçenekleri, yıkama soruları, duş, havlu tıklama/dokunma/sürükleme ve serbest zıplama doğrulandı; kapsamlı bakım testinin bazı durulama bölgeleri yalnızca testte köpük azaltılarak hızlandırılmıştı.
 
 Tarayıcı kontrolleri masaüstü Chromium ve telefon ekran boyutuyla yapıldı; gerçek cihaz performansı ve çocuklarla kullanım denemesi yapılmadı. Derlemede >500 kB JS paket uyarısı var; derleme başarısızlığı değil. Oyun için herkese açık kalıcı bir site veya App Store yayını bu çalışmada kurulmadı. `docs/` görselleri örnektir; her son değişikliği göstermeyebilir.
 
